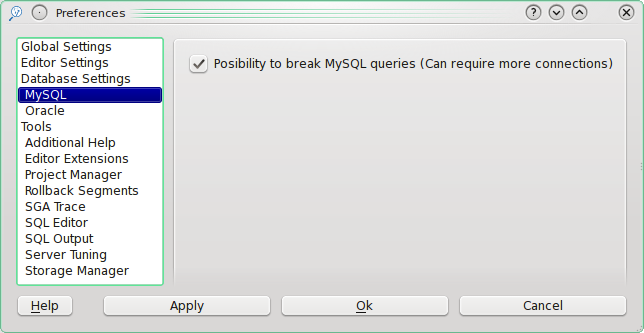
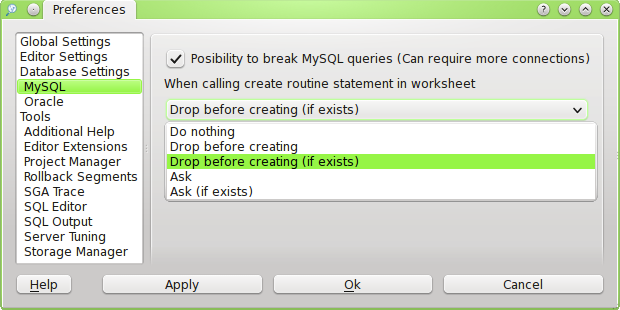
Add configuration option to check/drop mySQL routines before creating them.
git-svn-id: https://svn.code.sf.net/p/tora/code/trunk@3512 4a83093e-0cc6-42a4-b7cd-3300864c03d0

diff --git a/tora/doc/help/database.html b/tora/doc/help/database.html
@@ -99,6 +99,20 @@ feature. That setup looks like this.
 
      <dl>
 <dt><strong>Possibility to break MySql queries</strong><dd>    TODO. 
+<br><dt><strong>When calling create routine statement in worksheet</strong><dd>    MySQL routine creation does not support "create or replace" therefore if you try to create new routine and it
+    already exists you will get an exception. This option controls if TOra should try to avoid such exceptions in
+    one of supported ways:
+          <ul>
+    <li><strong>Do nothing</strong> - do not try to detect and avoid exception when creating routines. 
+    <li><strong>Drop before creating</strong> - execute "drop &lt;procedure|function&gt; if exists &lt;name&gt;" before calling create statement. 
+    <li><strong>Drop before creating (if exists)</strong> - check routines table if routine already exists. If so - execute drop statement. 
+    <li><strong>Ask</strong> - ask user if TOra should try dropping a routine before creating it (without checking if it already exists). 
+    <li><strong>Ask (if exists)</strong> - check routines table if routine already exists. If so - ask user if drop
+      statement should be called (without it creating procedure will fail, but it could be usefull if you didn't know
+      that routine with given name exists already and now you would like to skip creation and probably change the name
+      of routine). 
+    </ul>
+         <strong>Note!</strong> - if routine creation statement fails you will be left without <strong>any</strong> version of routine in the database! 
 </dl>
 
    </body></html>

diff --git a/tora/src/toworksheet.cpp b/tora/src/toworksheet.cpp
@@ -889,7 +889,8 @@ static toSQL SQLCheckMySQLRoutine("toWorksheet:CheckRoutine",
                         "select count(1)\n"
                         "from information_schema.routines\n"
                         "where routine_name = :f1<char[101]>\n"
-                        "  and lower(routine_type) = :f2<char[101]>",
+                        "  and lower(routine_type) = :f2<char[101]>\n"
+                        "  and routine_schema = :f3<char[101]>",
                         "Check if routine exists in MySQL",
                         "5.0",
                         "MySQL");
@@ -899,6 +900,79 @@ static toSQL SQLDropMySQLRoutine("toWorksheet:DropRoutine",
                         "Drop MySQL routine if it exists",
                         "5.0",
                         "MySQL");
+
+// MySQL does not support replacing currently existing routines. Trying to create existing
+// routine raises exception. Therefore when creating a routine a previous one should be
+// dropped first.
+// There is a configuration option in MySQL settings section on how exactly this feature
+// should behave:
+//   0 - do nothing
+//   1 - drop before creating
+//   2 - drop before creating (if exists)
+//   3 - ask
+//   4 - ask (if exists)
+void toWorksheet::mySQLBeforeCreate(QString &chk)
+{
+    // wether routine exists must checked if config is set to 2 (drop if exists) and 4 (ask if exists)
+    bool check = (toConfigurationSingle::Instance().createAction() % 2 == 0);
+    // wether to ask or drop automatically if config is set to 3 (ask) and 4 (ask if exists)
+    bool ask = (toConfigurationSingle::Instance().createAction() > 2);
+    bool answerYes;
+
+    // do a "poor mans" parsing as we do not actually need to parse everything
+    chk.replace("(", " ");
+    chk.replace("\n", " ");
+    QStringList tok = chk.split(" ", QString::SkipEmptyParts);
+
+    // only for "create" statements
+    if (tok[0] == "create")
+    {
+        int i;
+        if (tok[1].startsWith("definer="))
+            i = 1;
+        else
+            i = 0;
+
+        // only for create function|procedure statements (not for create table|index etc...)
+        if (tok[1 + i] == "function" || tok[1 + i] == "procedure")
+        {
+            int c = 1; // count of existing routines (would logically be 0 or 1)
+
+            try {
+                if (check)
+                {
+                    // Check if this routine actually exists in database
+                    toQList param;
+                    toPush(param, toQValue(tok[2 + i].remove('`'))); // routine name
+                    toPush(param, toQValue(tok[1 + i])); // routine type (procedure or function)
+                    toPush(param, toQValue(Schema->currentText()));
+                    toQuery query(connection(), toQuery::Long, SQLCheckMySQLRoutine, param);
+                    c = query.readValue().toInt(); // 1 - exists, 0 - does not exist
+                }
+
+                if (c == 1)
+                {
+                    if (ask)
+                        answerYes = (TOMessageBox::information(this, tr("Drop routine?"),
+                                     tr("Do you want to drop %1 %2?").arg(tok[1 + i]).arg(tok[2 + i]),
+                                     tr("&Drop"), tr("Leave it and continue")) == 0);
+                    else
+                        answerYes = true;
+
+                    if (answerYes)
+                    {
+                        toQList param;
+                        toPush(param, toQValue(tok[1 + i])); // routine type (procedure or function)
+                        toPush(param, toQValue(tok[2 + i])); // routine name
+                        // Note that if routine creation is not successfull you will be left without any routine!
+                        toQuery query(connection(), toQuery::Long, SQLDropMySQLRoutine, param);
+                    }
+                }
+            }
+            TOCATCH;
+        }
+    }
+} // mySQLBeforeCreate
 
 void toWorksheet::query(const QString &str, execType type, toSQLParse::statement::statementClass sc)
 {
@@ -940,59 +1014,9 @@ void toWorksheet::query(const QString &str, execType type, toSQLParse::statement
     if (chk.startsWith(QString::fromLatin1("create trigger ")))
         nobinds = true;
 
-    // MySQL does not support replacing currently existing routines. Trying to create existing
-    // routine raises exception. Therefore when creating a routine a previous one should be
-    // dropped first.
-    if (toIsMySQL(connection()) && code)
-    {
-        // do a "poor mans" parsing as we do not actually need to parse everything
-        chk.replace("(", " ");
-        chk.replace("\n", " ");
-        QStringList tok = chk.split(" ", QString::SkipEmptyParts);
-
-        // only for "create" statements
-        if (tok[0] == "create")
-        {
-            int i;
-            if (tok[1].startsWith("definer="))
-                i = 1;
-            else
-                i = 0;
-
-            // only for create function|procedure statements (not for create table|index etc...)
-            if (tok[1 + i] == "function" || tok[1 + i] == "procedure")
-            {
-                int c = 1; // count of existing routines (would logically be 0 or 1)
-
-                try {
-                    if (1==1 /* config "check if routine exists" is enabled */)
-                    {
-                        // Check if this routine actually exists in database
-                        toQList param;
-                        toPush(param, toQValue(tok[2 + i].remove('`'))); // routine name
-                        toPush(param, toQValue(tok[1 + i])); // routine type (procedure or function)
-                        toQuery query(connection(), toQuery::Long, SQLCheckMySQLRoutine, param);
-                        c = query.readValue().toInt(); // 1 - exists, 0 - does not exist
-                    }
-
-                    if (c == 1 /*|| config "drop always" */)
-                    {
-                        if (TOMessageBox::information(this, tr("Drop routine?"),
-                                                      tr("Do you want to drop %1 %2?").arg(tok[1 + i]).arg(tok[2 + i]),
-                                                      tr("&Drop"), tr("Leave it and continue")) == 0)
-                        {
-                            toQList param;
-                            toPush(param, toQValue(tok[1 + i])); // routine type (procedure or function)
-                            toPush(param, toQValue(tok[2 + i])); // routine name
-                            // Note that if routine creation is not successfull you will be left without any routine!
-                            toQuery query(connection(), toQuery::Long, SQLDropMySQLRoutine, param);
-                        }
-                    }
-                }
-                TOCATCH;
-            }
-        }
-    } // if toIsMySQL
+    // Imitate something like "create or replace" syntax for MySQL
+    if (toIsMySQL(connection()) && code && toConfigurationSingle::Instance().createAction() > 0)
+        mySQLBeforeCreate(chk);
 
     if (type == OnlyPlan)
     {

diff --git a/tora/src/toqsqlconnection.cpp b/tora/src/toqsqlconnection.cpp
@@ -1042,6 +1042,8 @@ public:
 class qSqlSetting : public QWidget, public toSettingTab
     {
         QCheckBox *OnlyForward;
+        QLabel    *CreateLabel;
+        QComboBox *BeforeCreateAction;
     public:
         qSqlSetting(QWidget *parent)
                 : QWidget(parent), toSettingTab("database.html#qsql")
@@ -1069,6 +1071,22 @@ class qSqlSetting : public QWidget, public toSettingTab
             OnlyForward->setChecked(toConfigurationSingle::Instance().onlyForward());
             vbox->addWidget(OnlyForward);
 
+            CreateLabel = new QLabel(
+                qApp->translate("qSqlSetting", "When calling create routine statement in worksheet"),
+                box);
+            vbox->addWidget(CreateLabel);
+
+            BeforeCreateAction = new QComboBox(box);
+            BeforeCreateAction->clear();
+            BeforeCreateAction->insertItems(0, QStringList()
+              << qApp->translate("qSqlSetting", "Do nothing")
+              << qApp->translate("qSqlSetting", "Drop before creating")
+              << qApp->translate("qSqlSetting", "Drop before creating (if exists)")
+              << qApp->translate("qSqlSetting", "Ask")
+              << qApp->translate("qSqlSetting", "Ask (if exists)"));
+            BeforeCreateAction->setCurrentIndex(toConfigurationSingle::Instance().createAction());
+            vbox->addWidget(BeforeCreateAction);
+
             QSpacerItem *spacer = new QSpacerItem(
                 20,
                 20,
@@ -1082,6 +1100,7 @@ class qSqlSetting : public QWidget, public toSettingTab
         {
             toConfigurationSingle::Instance().setOnlyForward(OnlyForward->isChecked());
             toQSqlProvider::OnlyForward = OnlyForward->isChecked();
+            toConfigurationSingle::Instance().setCreateAction(BeforeCreateAction->currentIndex());
         }
     };
 

diff --git a/tora/src/toconfiguration.cpp b/tora/src/toconfiguration.cpp
@@ -143,6 +143,7 @@ public:
 
     // toqsqlconnection
     bool m_onlyForward;
+    int  m_createAction;
 
     // main.cpp
     QString     m_lastVersion;
@@ -386,6 +387,7 @@ public:
         m_maxLong = s.value(CONF_MAX_LONG, DEFAULT_MAX_LONG).toInt();
         // toqsqlconnection
         m_onlyForward = s.value(CONF_ONLY_FORWARD, DEFAULT_ONLY_FORWARD).toBool();
+        m_createAction = s.value(CONF_CREATE_ACTION, DEFAULT_CREATE_ACTION).toInt();
         // main.cpp
         m_lastVersion = s.value(CONF_LAST_VERSION, "").toString();
         m_firstInstall = s.value(CONF_FIRST_INSTALL, "").toString();
@@ -614,6 +616,7 @@ public:
         s.setValue(CONF_MAX_LONG, m_maxLong);
         // toqsqlconnection
         s.setValue(CONF_ONLY_FORWARD, m_onlyForward);
+        s.setValue(CONF_CREATE_ACTION, m_createAction);
         // main.cpp
         s.setValue(CONF_LAST_VERSION, m_lastVersion);
         s.setValue(CONF_FIRST_INSTALL, m_firstInstall);
@@ -1651,6 +1654,16 @@ bool toConfiguration::onlyForward()
 void toConfiguration::setOnlyForward(bool v)
 {
     p->m_onlyForward = v;
+}
+
+int toConfiguration::createAction()
+{
+    return p->m_createAction;
+}
+
+void toConfiguration::setCreateAction(int v)
+{
+    p->m_createAction = v;
 }
 
 // main.cpp

diff --git a/tora/src/toworksheet.h b/tora/src/toworksheet.h
@@ -183,6 +183,9 @@ class toWorksheet : public toToolWidget
     // private for toworksheetwidget
     toWorksheet(QWidget *parent, const char *name, toConnection &connection);
 
+    // Imitate something like "create or replace" syntax for MySQL
+    void mySQLBeforeCreate(QString &chk);
+
 protected:
     void closeEvent(QCloseEvent *event);
 

diff --git a/tora/src/toconf.h b/tora/src/toconf.h
@@ -179,6 +179,8 @@
 // tosqlconnection
 #define CONF_ONLY_FORWARD "OnlyForward"
 #define DEFAULT_ONLY_FORWARD true
+#define CONF_CREATE_ACTION "BeforeCreateAction"
+#define DEFAULT_CREATE_ACTION 0
 // main.cpp
 #define CONF_LAST_VERSION "LastVersion"
 #define CONF_FIRST_INSTALL "FirstInstall"

diff --git a/tora/src/toconfiguration.h b/tora/src/toconfiguration.h
@@ -284,6 +284,8 @@ public:
     // toqsqlconnection
     bool onlyForward();
     void setOnlyForward(bool v);
+    int createAction();
+    void setCreateAction(int v);
 
     // main.cpp
     QString lastVersion();
